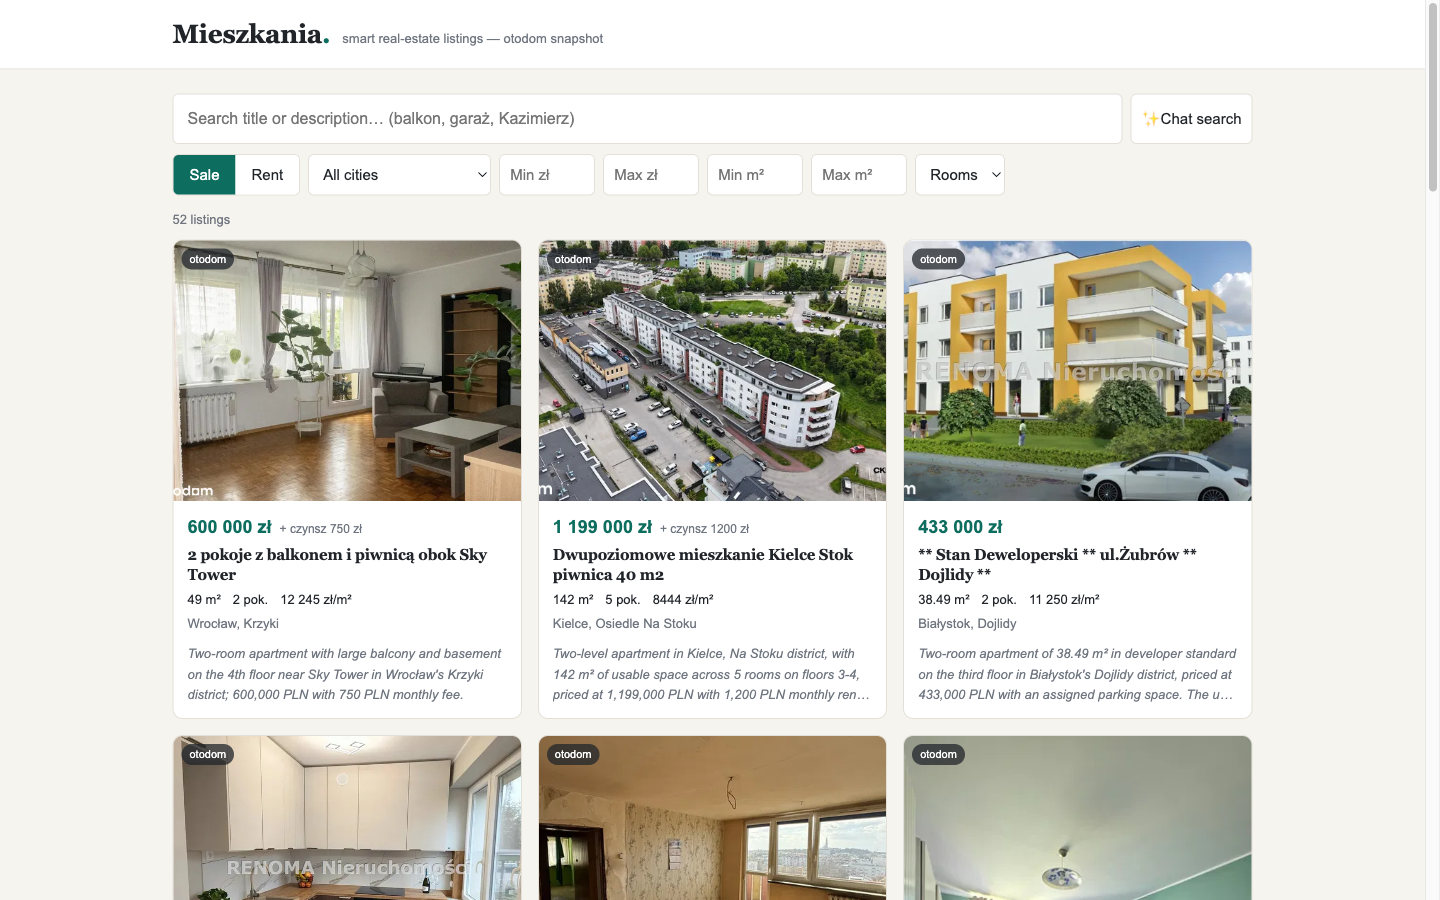
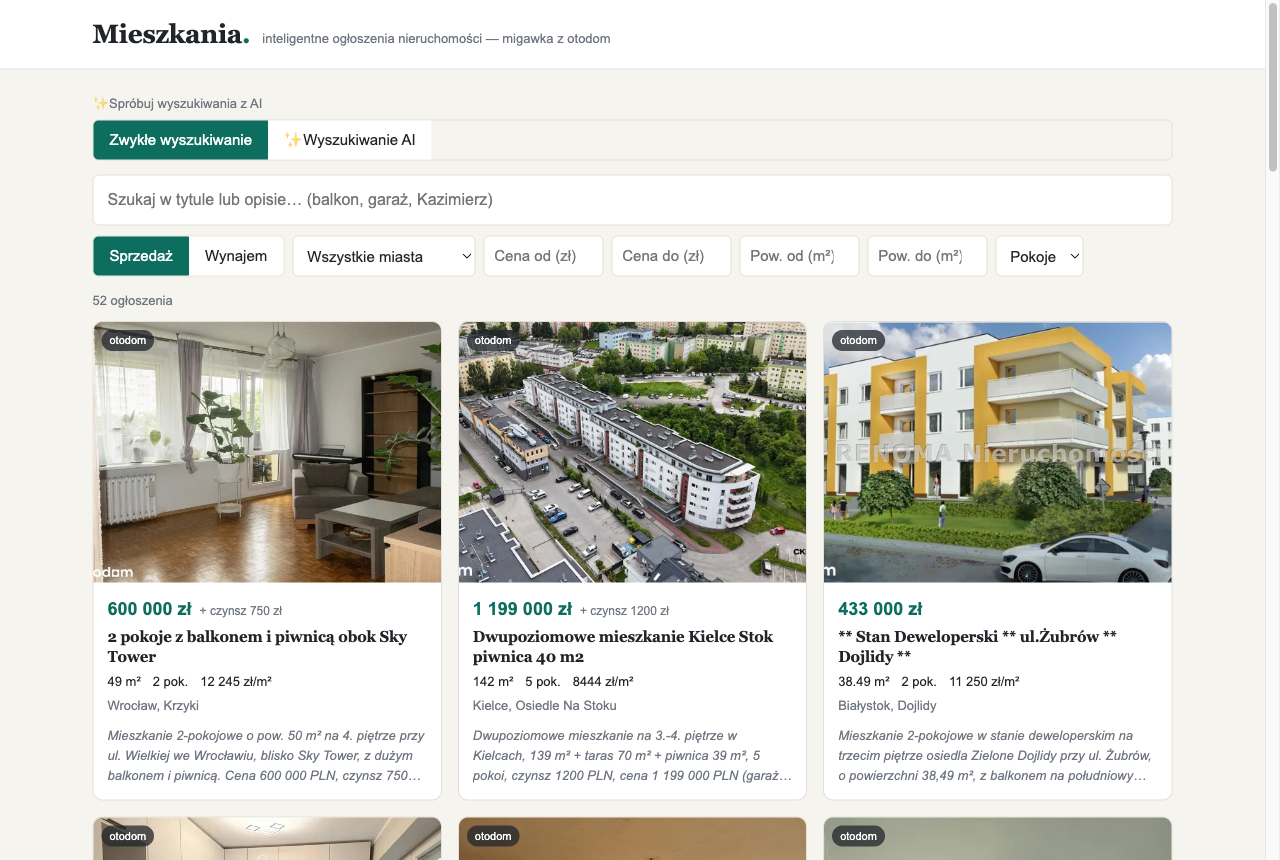
docs: rewrite README with one-command quickstart and screenshots
Lead with the single Docker command (cp .env.example .env && docker
compose up → :3004), make the optional API key explicit, and add a
local-dev path plus a scripts table. Add screenshots of the listings
grid, natural-language search, and the offer detail page. Satisfies
NFR-2 (reproducible from the README with a minimal command sequence).

Claude-Session: https://claude.ai/code/session_01Mj8vB2T8SUXTGgJDJjk8i4

diff --git a/README.md b/README.md
@@ -1,71 +1,83 @@
 # Smart Listings
 
-A smart real-estate listings platform: scrapes ~100 real Polish apartment
-offers nationwide, normalizes the mess (missing fields, duplicates, quirky
-formats), enriches with AI, and serves a filterable listings UI with
-natural-language chat search.
+A real-estate listings app that scrapes ~100 real Polish apartment offers,
+cleans up the messy real-world data (missing fields, duplicates, odd formats),
+enriches it with AI, and serves a filterable UI with **natural-language search** —
+type *"a cheap flat around 40 m²"* and it turns your words into filters.
 
-**[REASONING.md](REASONING.md) is the point** — the decisions and trade-offs
-matter more than the feature count. [requirements/REQUIREMENTS.md](requirements/REQUIREMENTS.md)
-is the brief this build answers.
+![Listings — nationwide sample with filters and search](docs/screenshot-listings.png)
 
-![Listings UI — nationwide sample with filters and chat search](docs/screenshot-listings.png)
+## Run it (one command)
 
-## Quickstart
-
-### Option A — one command (Docker)
+You only need **[Docker](https://docs.docker.com/get-docker/)** installed and running.
 
 ```bash
-cp .env.example .env      # ANTHROPIC_API_KEY optional — only the chat box uses it
-docker compose up         # MySQL + app, seeded, on http://localhost:3004
+cp .env.example .env      # optional: paste an ANTHROPIC_API_KEY to enable AI search
+docker compose up         # builds everything, starts MySQL, seeds data, serves
 ```
 
-No Node, no manual build. Compose builds the app image (which builds the
-frontend), starts MySQL, waits for it to be healthy, then seeds and serves. The
-key — if set in your `.env` — is passed through as a runtime env var and never
-baked into the image.
+Then open **<http://localhost:3004>**. That's it — no Node, no manual build, no database setup.
 
-### Option B — host-side development (Node + Dockerised MySQL)
+> The listings data ships inside the repo, so the app works fully offline.
+> The AI key is **optional**: without it, browsing, filtering, and text search
+> all still work — only the AI search box falls back to plain text.
 
-```bash
-cp .env.example .env
-docker compose up -d db   # just MySQL 8 (host port parameterized, loopback-only)
-npm install
-npm start                 # seed → build → serve on one port → http://localhost:3004
-```
+To stop it: `Ctrl+C`, or `docker compose down` to also remove the containers.
 
-Either way, the data ships in the repo (`data/enriched/listings.json`), so no
-scraping or API key is needed to run it — `npm start` seeds the committed
-dataset, builds the frontend, and serves the API and SPA from a single port.
+## What you can do
 
-## Scripts
+- **Filter & browse** — offer type, city, price, area, rooms, and text search, with pagination. Every search is a shareable URL.
+- **Natural-language search** — describe what you want; AI turns it into filters and shows you exactly what it applied.
+- **Offer detail** — the full listing with an AI summary and a link back to the original source.
 
-| Command | What it does |
-|---|---|
-| `npm start` | Seed → build → serve on one port (the demo). |
-| `npm run serve` | Serve an already-built, already-seeded app (no rebuild). |
-| `npm run dev` | API + Vite dev server with HMR, on separate ports. |
-| `npm test` | Unit tests (normalization, dedupe, AI merge). |
-| `npm run test:integration` | Repo/API integration tests (needs MySQL up). |
-| `npm run typecheck` | `tsc --noEmit` across the server. |
+**Natural-language search** — *"a flat around 40 m² under 500,000 zł"* becomes real filters:
 
-`scrape` and `ingest` are author-only, one-time steps (network + API key) that
-produced the committed dataset; the grader never runs them.
+![AI search turning a sentence into filters](docs/screenshot-search.png)
 
-## How it fits together
+**Offer detail** — full data, AI summary, and a link back to the source:
+
+![Detail page](docs/screenshot-detail.png)
+
+## How it works
 
 ```
 otodom  →  scrape  →  normalize (deterministic)  →  AI gap-fill + summaries
                                                             │
-                                       data/enriched/listings.json (committed)
+                                       data/enriched/listings.json  (shipped in repo)
                                                             │
-                                        seed → MySQL → repo → API → Vue SPA
+                                        seed → MySQL → repo → API → Vue app
 ```
 
-Layering is strict: `routes → repo → MySQL`, all SQL in the repo layer; `claude.ts`
-is the only file touching the AI SDK; every unparseable field is explicit `null`.
-See [CLAUDE.md](CLAUDE.md) for the conventions and [REASONING.md](REASONING.md)
-for why.
+Prices, areas, rooms, and floors are parsed by plain code — never guessed by AI.
+The AI only fills gaps the text leaves and powers the search box. Anything
+unparseable stays an explicit `null` and shows as "—", never a fabricated value.
+
+The reasoning behind these choices is the real deliverable — see
+**[REASONING.md](REASONING.md)**. The brief it answers is
+**[requirements/REQUIREMENTS.md](requirements/REQUIREMENTS.md)**, and the
+engineering conventions are in **[CLAUDE.md](CLAUDE.md)**.
+
+## Developing locally (optional)
+
+Prefer running the app on your machine with only the database in Docker:
+
+```bash
+cp .env.example .env
+docker compose up -d db   # just MySQL 8
+npm install
+npm run dev               # API + Vite dev server with hot reload
+```
+
+| Command | What it does |
+|---|---|
+| `npm start` | Seed → build → serve on one port (production-style demo). |
+| `npm run dev` | API + Vite dev server with hot reload, on separate ports. |
+| `npm test` | Unit tests (normalization, dedupe, AI merge logic). |
+| `npm run test:integration` | Repo/API integration tests (needs MySQL up). |
+| `npm run typecheck` | Type-check the server. |
+
+`scrape` and `ingest` are one-time author steps (they need network access and an
+API key) that produced the committed dataset — you never need to run them.
 
 ## License
 